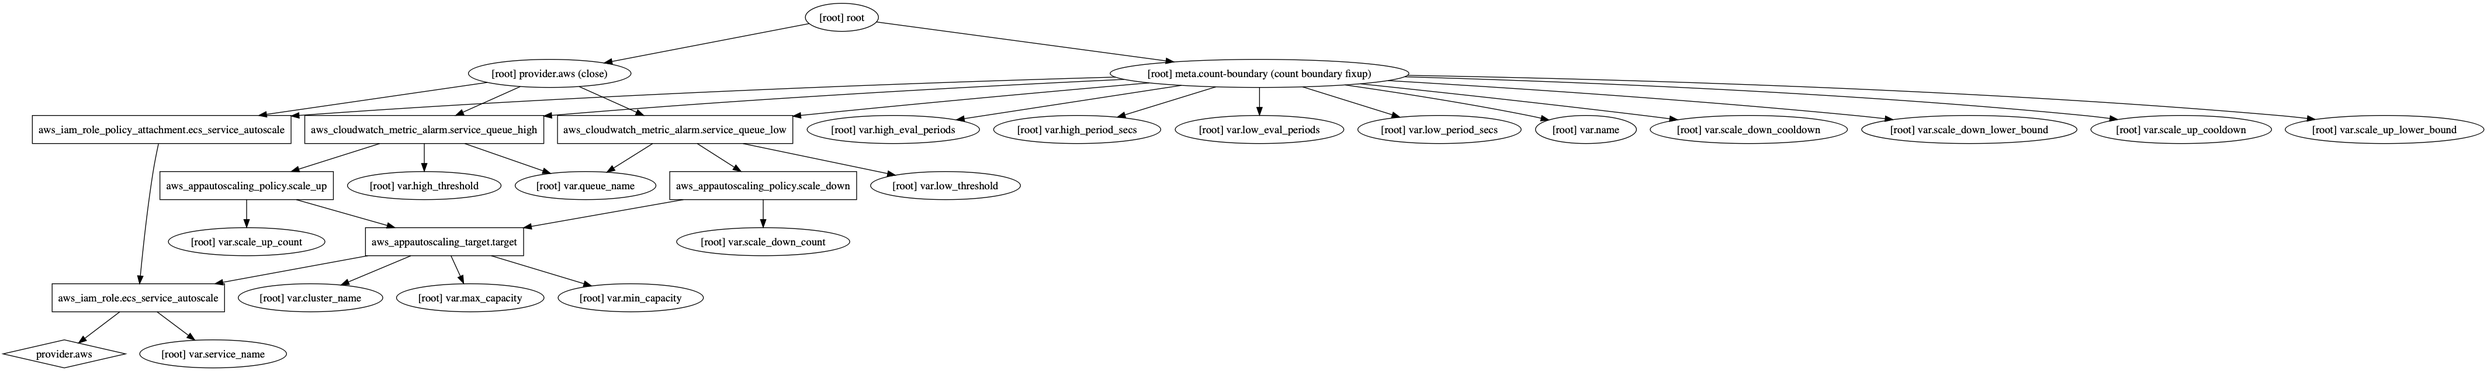
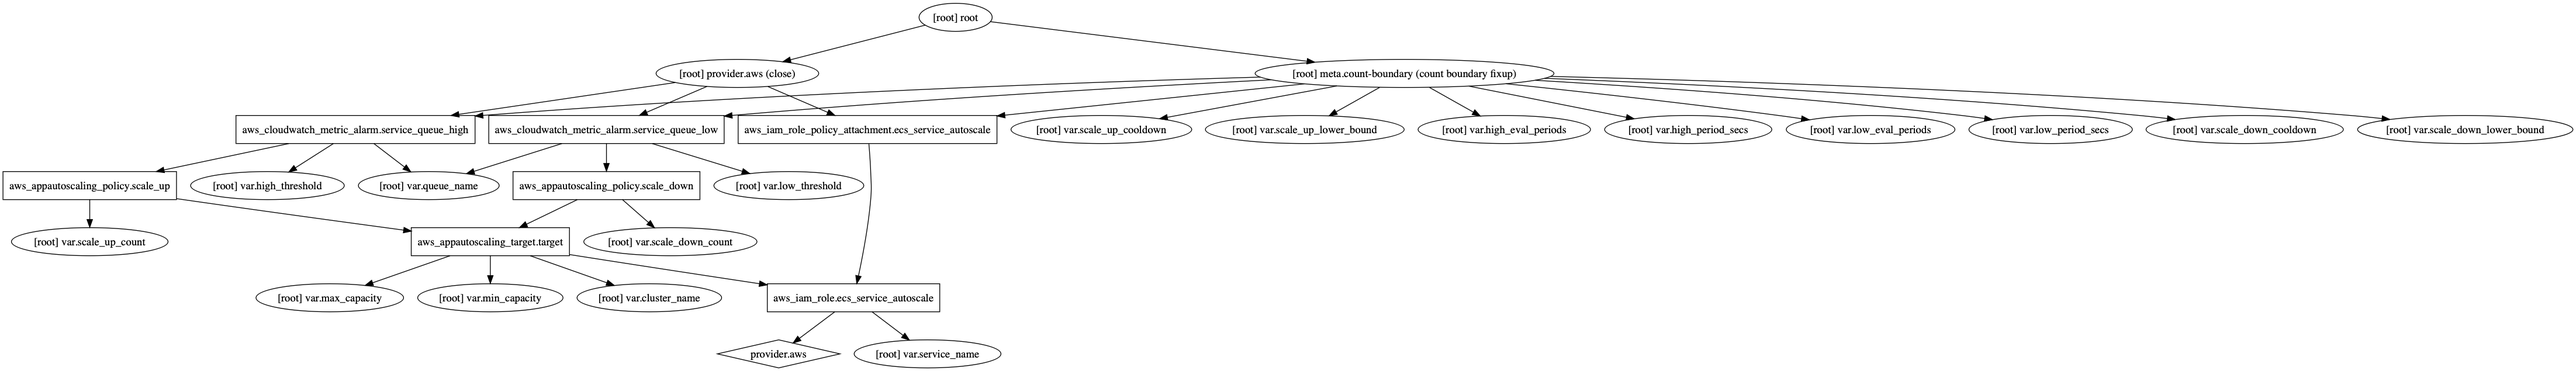
Remove unused var. Improve doc

diff --git a/README.md b/README.md
@@ -1,11 +1,12 @@
-# terraform-#PROVIDER#-#MODULE#
+# terraform-aws-ecs-service-autoscale-step-sqs
 
-[![CircleCI](https://circleci.com/gh/#ORG#/terraform-#PROVIDER#-#MODULE#.svg?style=svg)](https://circleci.com/gh/#ORG#/terraform-#PROVIDER#-#MODULE#)
-[![Github release](https://img.shields.io/github/release/#ORG#/terraform-#PROVIDER#-#MODULE#.svg)](https://github.com/#ORG#/terraform-#PROVIDER#-#MODULE#/releases)
+[![CircleCI](https://circleci.com/gh/appzen-oss/terraform-aws-ecs-service-autoscale-step-sqs.svg?style=svg)](https://circleci.com/gh/appzen-oss/terraform-aws-ecs-service-autoscale-step-sqs)
+[![Github release](https://img.shields.io/github/release/appzen-oss/terraform-aws-ecs-service-autoscale-step-sqs.svg)](https://github.com/appzen-oss/terraform-aws-ecs-service-autoscale-step-sqs/releases)
 
-Terraform module to
+Terraform module to manage application autoscaling for an ECS service based
+on a SQS queue's length
 
-[Terraform registry](https://registry.terraform.io/modules/#ORG#/#MODULE#/#PROVIDER#)
+[Terraform registry](https://registry.terraform.io/modules/appzen-oss/ecs-service-autoscale-step-sqs/aws)
 
 ## Usage
 
@@ -13,7 +14,7 @@ Terraform module to
 
 ```hcl
 module "" {
-  source        = "#ORG#/#MODULE#/#PROVIDER#"
+  source        = "appzen-oss/ecs-service-autoscale-step-sqs/aws"
   version       = "0.0.1"
 }
 ```
@@ -32,7 +33,6 @@ module "" {
 | low\_threshold | The value against which the low statistic is compared | string | `"100"` | no |
 | max\_capacity | Maximum number of tasks to scale to | string | `"5"` | no |
 | min\_capacity | Minimum number of tasks to scale to | string | `"0"` | no |
-| name | /* data from elsewhere variable "name"                   var.name full name variable "cluster_name"           Pull from var.ecs_cluster_arn or pass in var for name variable "service_name"           Add ouput name to ecs_service # make local ? variable "queue_name"             "${element(module.sqs.queues, index(module.sqs.queue_name_bases, var.name))}" /**/ | string | n/a | yes |
 | queue\_name | Name of SQS queue to monitor | string | n/a | yes |
 | scale\_down\_cooldown | The amount of time, in seconds, after a scaling down completes and before the next scaling activity can start | string | `"60"` | no |
 | scale\_down\_count | The number of members by which to scale down, when the adjustment bounds are breached. Should always be negative value | string | `"-3"` | no |
